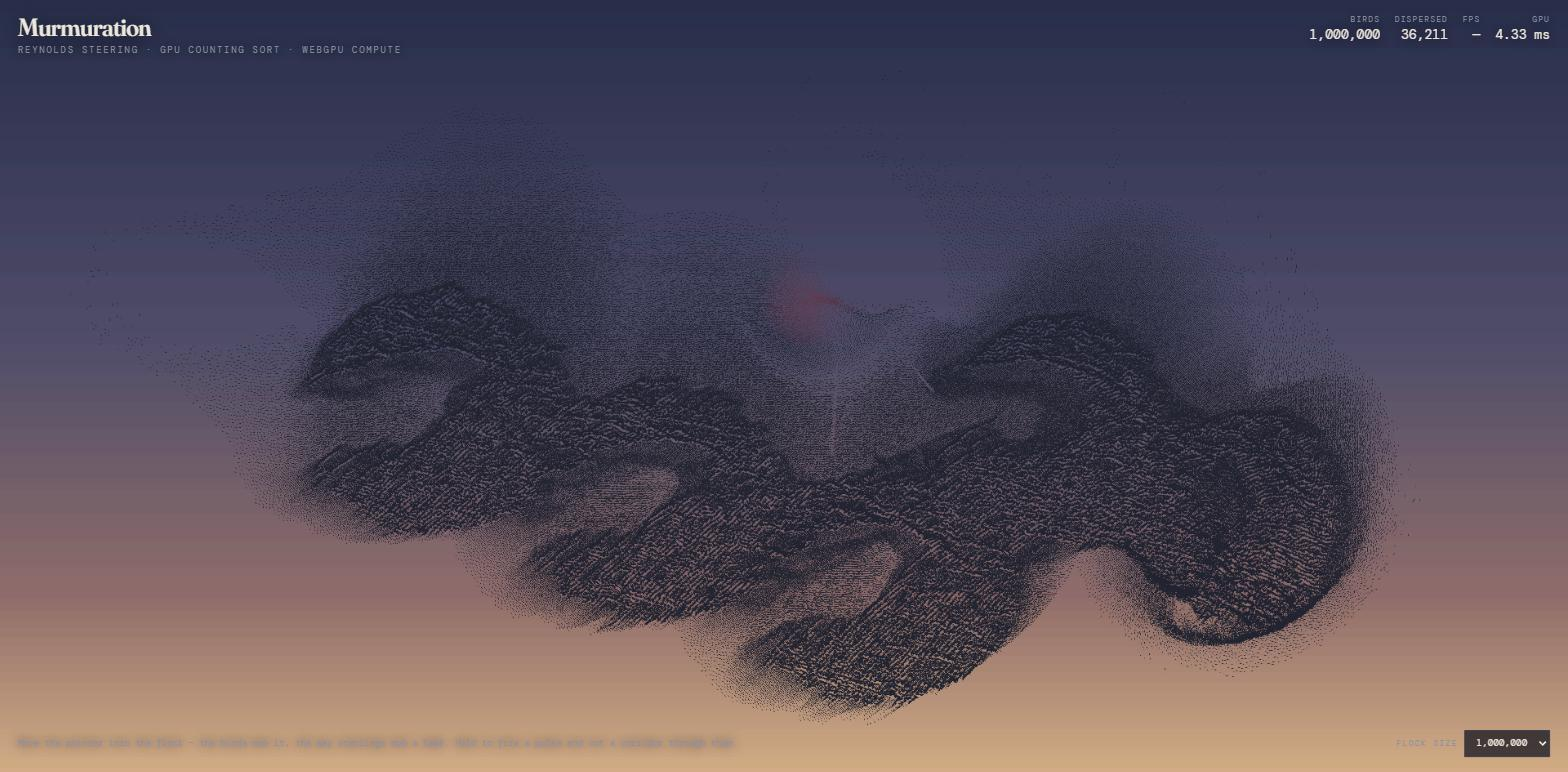
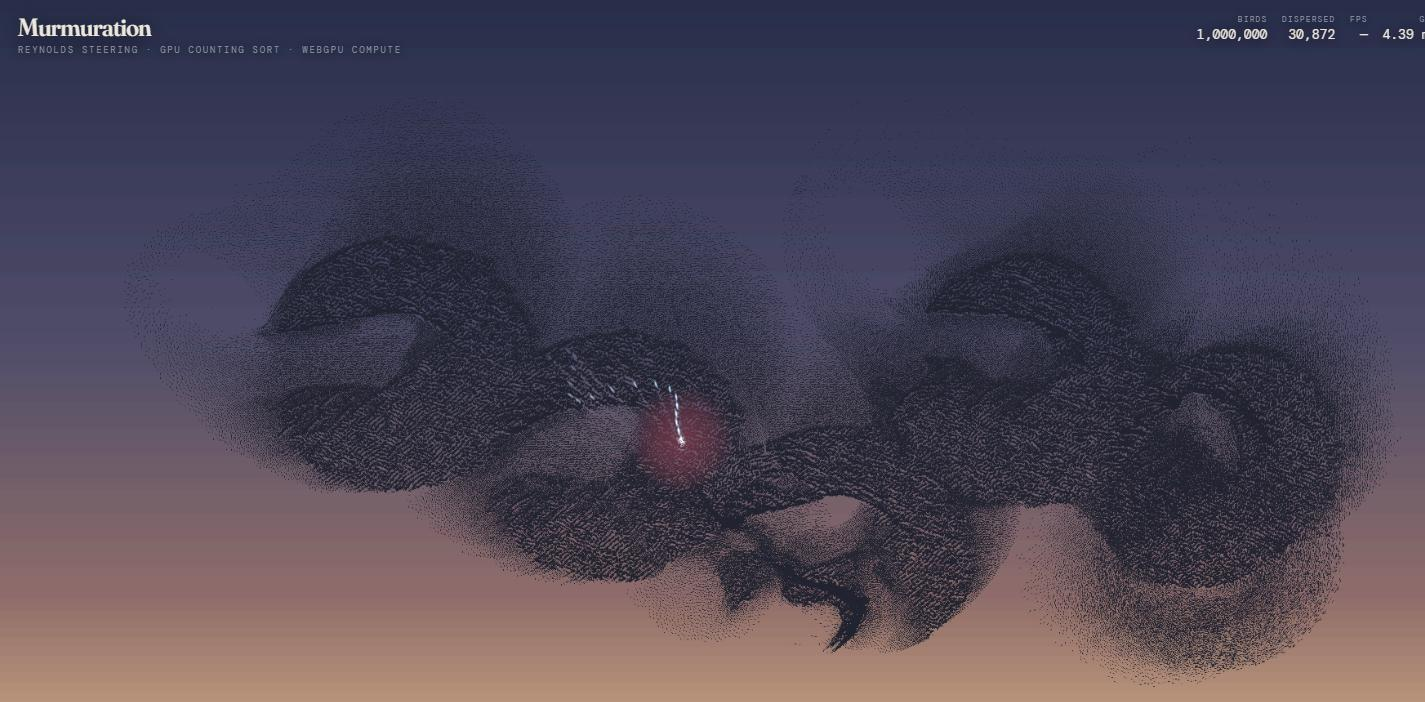
Draw the drone and its rounds
Nothing rendered the player. You were an invisible point, and the only
feedback that you existed was the red agitation tint on nearby birds
and the corridor your fire cut. Rounds were invisible too.

Both now draw as instanced quads in an additive pass, against a flock
rendered as dark ink: the machine emits light, the birds occlude it.
That contrast is what separates the two without needing any other cue.

Rounds stretch along their heading into a dart and fade over their
life; the hull stays round so its glow reads the same whichever way you
fly, and blinks while invulnerable so a hit is legible without looking
at the HUD.

Verified at 1M: drone visible, round trail visible, corridor visible,
GPU 4.39 ms.

Claude-Session: https://claude.ai/code/session_01LMtfzufzZ5artARZZQerqr

Changed region(s): [[0.0, 0.2991, 1.0, 1.0], [0.0, 0.0299, 0.2779, 0.0897], [0.8337, 0.0, 1.0, 0.0598]]

diff --git a/src/render/renderer.ts b/src/render/renderer.ts
@@ -1,6 +1,7 @@
 import skyWgsl from "../shaders/sky.wgsl?raw";
 import birdsWgsl from "../shaders/birds.wgsl?raw";
 import blitWgsl from "../shaders/blit.wgsl?raw";
+import craftWgsl from "../shaders/craft.wgsl?raw";
 
 /** Dusk, and the same sky an hour later. Waves interpolate between them. */
 const SKY_DUSK = [
@@ -27,6 +28,11 @@ const lerp3 = (a: number[], b: number[], t: number): [number, number, number] =>
   lerp(a[2] as number, b[2] as number, t),
 ];
 
+/** Floats per craft instance: pos.xy, dir.xy, size, kind, alpha, pad. */
+export const CRAFT_STRIDE = 8;
+/** Drone plus rounds. */
+export const MAX_CRAFT = 128;
+
 export interface FrameLook {
   /** 0 = dusk, 1 = night. Drives sky, ink and agitation colour together. */
   dusk: number;
@@ -48,11 +54,16 @@ export class Renderer {
   private readonly skyPipe: GPURenderPipeline;
   private readonly birdPipe: GPURenderPipeline;
   private readonly blitPipe: GPURenderPipeline;
+  private readonly craftPipe: GPURenderPipeline;
 
   private readonly skyU: GPUBuffer;
   private readonly birdU: GPUBuffer;
   private readonly skyBG: GPUBindGroup;
+  private readonly craftBG: GPUBindGroup;
+  private readonly craftU: GPUBuffer;
+  private readonly craftBuf: GPUBuffer;
   private readonly sampler: GPUSampler;
+  private craftCount = 0;
 
   private birdBG: GPUBindGroup | null = null;
   private scene: GPUTexture | null = null;
@@ -110,6 +121,41 @@ export class Renderer {
       entries: [{ binding: 0, resource: { buffer: this.skyU } }],
     });
 
+    // Additive: the machine emits light, it does not occlude the sky.
+    const additive: GPUBlendState = {
+      color: { srcFactor: "one", dstFactor: "one", operation: "add" },
+      alpha: { srcFactor: "one", dstFactor: "one", operation: "add" },
+    };
+    const craftMod = device.createShaderModule({ code: craftWgsl, label: "craft" });
+    this.craftPipe = device.createRenderPipeline({
+      label: "craft",
+      layout: "auto",
+      vertex: { module: craftMod, entryPoint: "vs" },
+      fragment: {
+        module: craftMod,
+        entryPoint: "fs",
+        targets: [{ format: "rgba8unorm", blend: additive }],
+      },
+      primitive: { topology: "triangle-list" },
+    });
+    this.craftU = device.createBuffer({
+      size: 16,
+      usage: GPUBufferUsage.UNIFORM | GPUBufferUsage.COPY_DST,
+      label: "craft:camera",
+    });
+    this.craftBuf = device.createBuffer({
+      size: MAX_CRAFT * CRAFT_STRIDE * 4,
+      usage: GPUBufferUsage.STORAGE | GPUBufferUsage.COPY_DST,
+      label: "craft:items",
+    });
+    this.craftBG = device.createBindGroup({
+      layout: this.craftPipe.getBindGroupLayout(0),
+      entries: [
+        { binding: 0, resource: { buffer: this.craftU } },
+        { binding: 1, resource: { buffer: this.craftBuf } },
+      ],
+    });
+
     this.sampler = device.createSampler({ magFilter: "linear", minFilter: "linear" });
   }
 
@@ -126,6 +172,19 @@ export class Renderer {
         { binding: 3, resource: { buffer: alive } },
       ],
     });
+  }
+
+  /** Upload the drone and its rounds for this frame. */
+  setCraft(data: Float32Array, count: number): void {
+    this.craftCount = Math.min(count, MAX_CRAFT);
+    if (this.craftCount === 0) return;
+    this.device.queue.writeBuffer(
+      this.craftBuf,
+      0,
+      data.buffer as ArrayBuffer,
+      data.byteOffset,
+      this.craftCount * CRAFT_STRIDE * 4,
+    );
   }
 
   /** Size the drawing buffer to the element. Returns true if it changed. */
@@ -201,6 +260,16 @@ export class Renderer {
       scenePass.setPipeline(this.birdPipe);
       scenePass.setBindGroup(0, bg);
       scenePass.draw(6, agents);
+    }
+    if (this.craftCount > 0) {
+      this.device.queue.writeBuffer(
+        this.craftU,
+        0,
+        new Float32Array([this.world[0], this.world[1], 0, 0]),
+      );
+      scenePass.setPipeline(this.craftPipe);
+      scenePass.setBindGroup(0, this.craftBG);
+      scenePass.draw(6, this.craftCount);
     }
     scenePass.end();
 

diff --git a/src/app.ts b/src/app.ts
@@ -1,7 +1,7 @@
 import { initGpu } from "./gpu/device";
 import { PassTimer } from "./gpu/timing";
 import { Flock } from "./sim/flock";
-import { Renderer } from "./render/renderer";
+import { Renderer, CRAFT_STRIDE, MAX_CRAFT } from "./render/renderer";
 import { Collider, PROBE_STRIDE, STATUS_KILLS, STATUS_PLAYER_HITS, STATUS_SIZE } from "./sim/collide";
 import { Readback } from "./gpu/readback";
 
@@ -67,6 +67,7 @@ async function main(): Promise<void> {
 
   let pulses: Pulse[] = [];
   const probeData = new Float32Array(((MAX_PULSES + 1) * PROBE_STRIDE) / 4);
+  const craftData = new Float32Array(MAX_CRAFT * CRAFT_STRIDE);
   let dispersed = 0;
 
   // Drone
@@ -265,6 +266,38 @@ async function main(): Promise<void> {
       probeData[o + 3] = 1;
       probeCount++;
     }
+
+    // Visuals for the machine: rounds first, hull last so it sits on top.
+    let craftCount = 0;
+    for (const u of pulses) {
+      if (craftCount >= MAX_CRAFT - 1) break;
+      const sp2 = Math.hypot(u.vx, u.vy) || 1;
+      const o = craftCount * CRAFT_STRIDE;
+      craftData[o] = u.x;
+      craftData[o + 1] = u.y;
+      craftData[o + 2] = u.vx / sp2;
+      craftData[o + 3] = u.vy / sp2;
+      craftData[o + 4] = 5.5;
+      craftData[o + 5] = 0;
+      // Fade over life so a spent round thins out instead of blinking away.
+      craftData[o + 6] = 0.9 * (1 - u.t / PULSE_LIFE);
+      craftData[o + 7] = 0;
+      craftCount++;
+    }
+    if (!over) {
+      const o = craftCount * CRAFT_STRIDE;
+      craftData[o] = droneX;
+      craftData[o + 1] = droneY;
+      craftData[o + 2] = aimX;
+      craftData[o + 3] = aimY;
+      craftData[o + 4] = 22;
+      craftData[o + 5] = 1;
+      // Blink while invulnerable, so a hit is legible without a HUD glance.
+      craftData[o + 6] = invuln > 0 && Math.floor(t * 18) % 2 === 0 ? 0.35 : 1;
+      craftData[o + 7] = 0;
+      craftCount++;
+    }
+    renderer.setCraft(craftData, craftCount);
 
     const measure = timestamps && !timingBusy && frame % 30 === 0;
     if (measure) {
